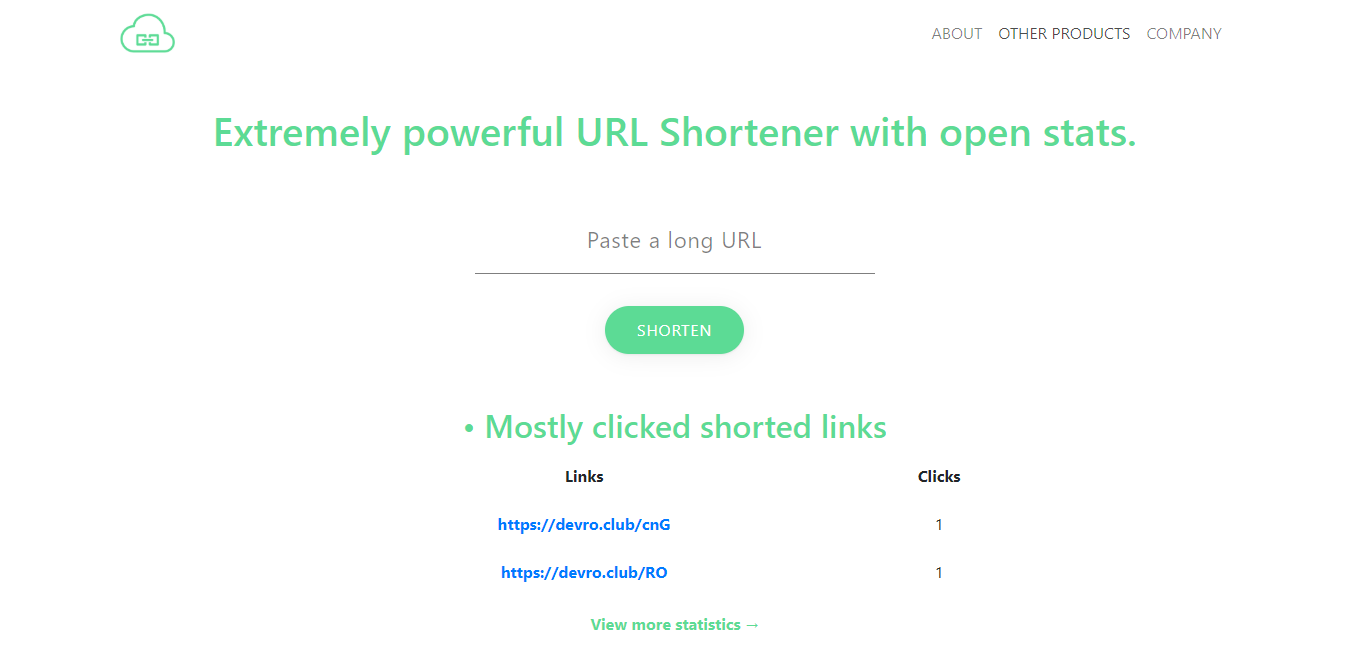
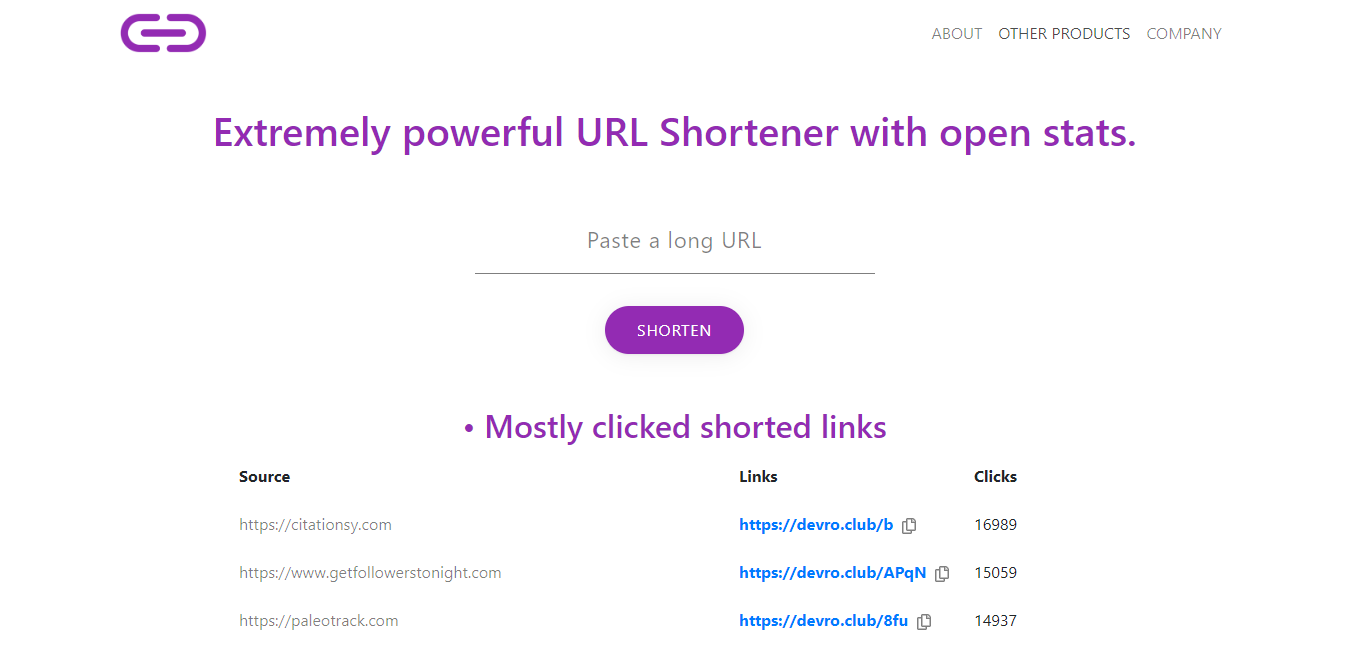
readme changed added

diff --git a/README.md b/README.md
@@ -1,4 +1,4 @@
-<p align="center"><a href='https://url.devro.club'><img alt="URL Shortener" src="https://url.devro.club/static/media/logo.27f364f8.png" height="30%" width="30%"></a></p>
+<p align="center"><a href='https://url.devro.club'><img alt="URL Shortener" src="https://url.devro.club/favicon.png" height="30%" width="30%"></a></p>
 
 ### URL Shortener | Extremely powerful URL Shortener with open stats
 We are doing nothing but serving you with short URLs and our statistics are open to everyone. This is an open-source project build in Devro LABS with React. With our Shortener you could have very short URLs even with one letter. Your URLs and clicks are open to everyone so no hide and seek game behind us.
